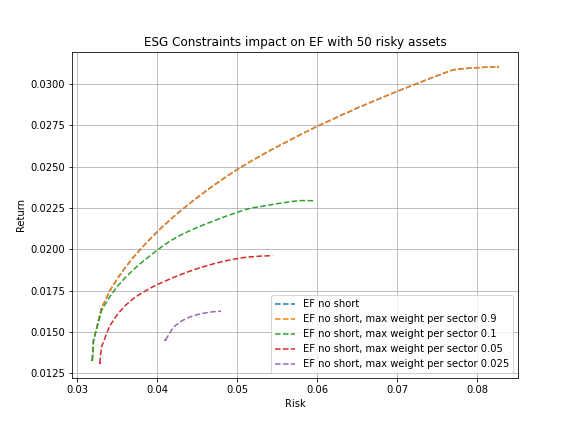
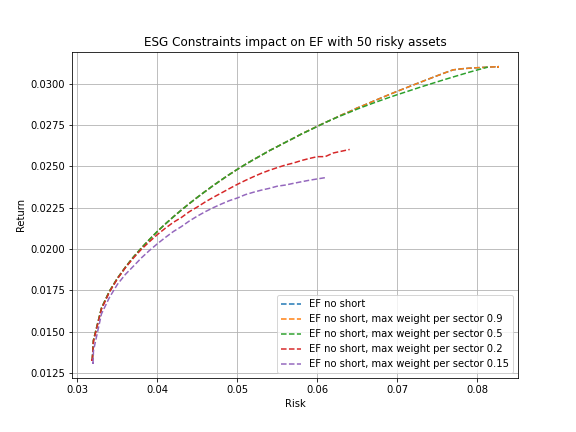
graphs for sectors

diff --git a/Tests_ESG.py b/Tests_ESG.py
@@ -32,14 +32,14 @@ sectors_list = SG.valid_sector_df
 #%% Create a target variable
 
 # Cluster technique
-SM = ScoreMaker(scores_ranks, dict_agencies, valid_tickers, valid_indices, 7)
+SM = ScoreMaker(scores_ranks, dict_agencies, valid_tickers, valid_indices, 100)
 
 SMK = SM.kmeans()
 SMG, taumax = SM.classify_gaussian_mixture()
 
 # ESG Target variables
-ESGTV = SM.make_score(SMK)
-ESGTV2 = SM.make_score(SMG)
+ESGTV = SM.make_score(SMK, n_classes = 100)
+ESGTV2 = SM.make_score(SMG, n_classes = 100)
 
 # Worst score approach
 #ESGTV3 = SG.worst_score(scores_ranks, n_classes = 7)
@@ -61,13 +61,14 @@ st.process_data()
 st.compute_monthly_returns()
 
 # 0: MSCI 1: Sustainalytics 2: S&P 3: Refinitiv
-provider = 'Kmeans'
-_ = st.keep_common_tickers(agencies_df[1], sectors_list)
+provider = 'KMeans'
+#_ = st.keep_common_tickers(agencies_df[1], sectors_list)
+_ = st.keep_common_tickers(ESGTV, sectors_list)
 
-stocks_ESG = st.restrict_assets(50)
+stocks_ESG = st.restrict_assets(10)
 st.compute_mean()
 st.compute_covariance()
-mean, _, rf = st.get_mean(), st.get_covariance(), st.get_rf()
+mean, old_cov , rf = st.get_mean(), st.get_covariance(), st.get_rf()
 cov = st.covariance_approximation()
 
 st.plot_sectors()
@@ -86,7 +87,7 @@ epf.plot_ESG_frontier(sharpes, ESG_list, savefig = True, score_source = provider
 
 #%% Efficient frontier depending on the ESG constraint
 
-risks, returns, sharpes = epf.efficient_frontier(max_std = 0.10, method = 2)
+risks, returns, sharpes = epf.efficient_frontier(max_std = 0.10, method = 1)
 epf.new_figure()
 #epf.plot_tangent(tangent_risk, tangent_return)
 epf.plot_constrained_frontier(risks, returns)
@@ -98,14 +99,8 @@ count, num_iters = 1, (int(max(stocks_ESG)) - int(min(stocks_ESG))) // 5
 for min_ESG in range(int(min(stocks_ESG)),int(max(stocks_ESG)) + 1, 5):
     if not(count % 2):
         print('Iteration number {count} out of {num_iters}'.format(count = count, num_iters = num_iters))
-    risks_new, returns_new, sharpes_new = epf.efficient_frontier(max_std = 0.10, method = 2, new_constraints = [epf.ESG_constraint(min_ESG)])
+    risks_new, returns_new, sharpes_new = epf.efficient_frontier(max_std = 0.10, method = 1, new_constraints = [epf.ESG_constraint(min_ESG)])
     if int(max(stocks_ESG)) - min_ESG < 5:
         save = True
     epf.plot_constrained_frontier(risks_new, returns_new, ESG_min_level = min_ESG, savefig = save, score_source = provider)
     count += 1
-#%% Plot them
-
-
-#%% Efficient frontiers with additional constraints
-
-

diff --git a/ScoreMaker.py b/ScoreMaker.py
@@ -76,7 +76,7 @@ class ScoreMaker:
         full_scores = self.add_class(mixture_labels)
         return full_scores, taumax
     
-    def make_score(self, full_scores):
+    def make_score(self, full_scores, n_classes = 7):
         
         mean_ranks = full_scores.groupby('labels').mean()
         global_mean_ranks = mean_ranks.mean(axis = 1)
@@ -86,7 +86,7 @@ class ScoreMaker:
         
         # Create a mapping dictionary from original labels to sorted labels
         # A low value means a poor ESG score
-        label_mapping = {label: 7-rank for rank, label in enumerate(sorted_labels, start=1)}
+        label_mapping = {label: n_classes-rank for rank, label in enumerate(sorted_labels, start=1)}
 
         # Map the labels in the original DataFrame according to the sorted order
         full_scores['sorted_labels'] = full_scores['labels'].map(label_mapping)

diff --git a/Tests_Sectors.py b/Tests_Sectors.py
@@ -63,7 +63,7 @@ st.compute_monthly_returns()
 provider = 'Refinitiv'
 
 _ = st.keep_common_tickers(agencies_df[1], sectors_list)
-n_assets = 10
+n_assets = 50
 stocks_ESG = st.restrict_assets(n_assets)
 st.compute_mean()
 st.compute_covariance()
@@ -74,7 +74,7 @@ st.plot_sectors()
 
 #%% Build a portfolio with restrictions on the minimal ESG score
 
-epf = ESG_Portfolio(mean,cov,rf, stocks_ESG, short_sales = False, sectors = sectors_list)
+epf = ESG_Portfolio(mean,cov,rf, stocks_ESG, short_sales = False, sectors = sectors_list[:n_assets])
 
 #epf = epf.risk_free_stats()
 
@@ -86,6 +86,7 @@ epf.new_figure()
 epf.plot_constrained_frontier(risks, returns)
 
 save = False
+
 weight_10_range = [0.01, 0.02, 0.05, 0.09]
 weight_50_range = [0.001, 0.005, 0.01, 0.015]
 
